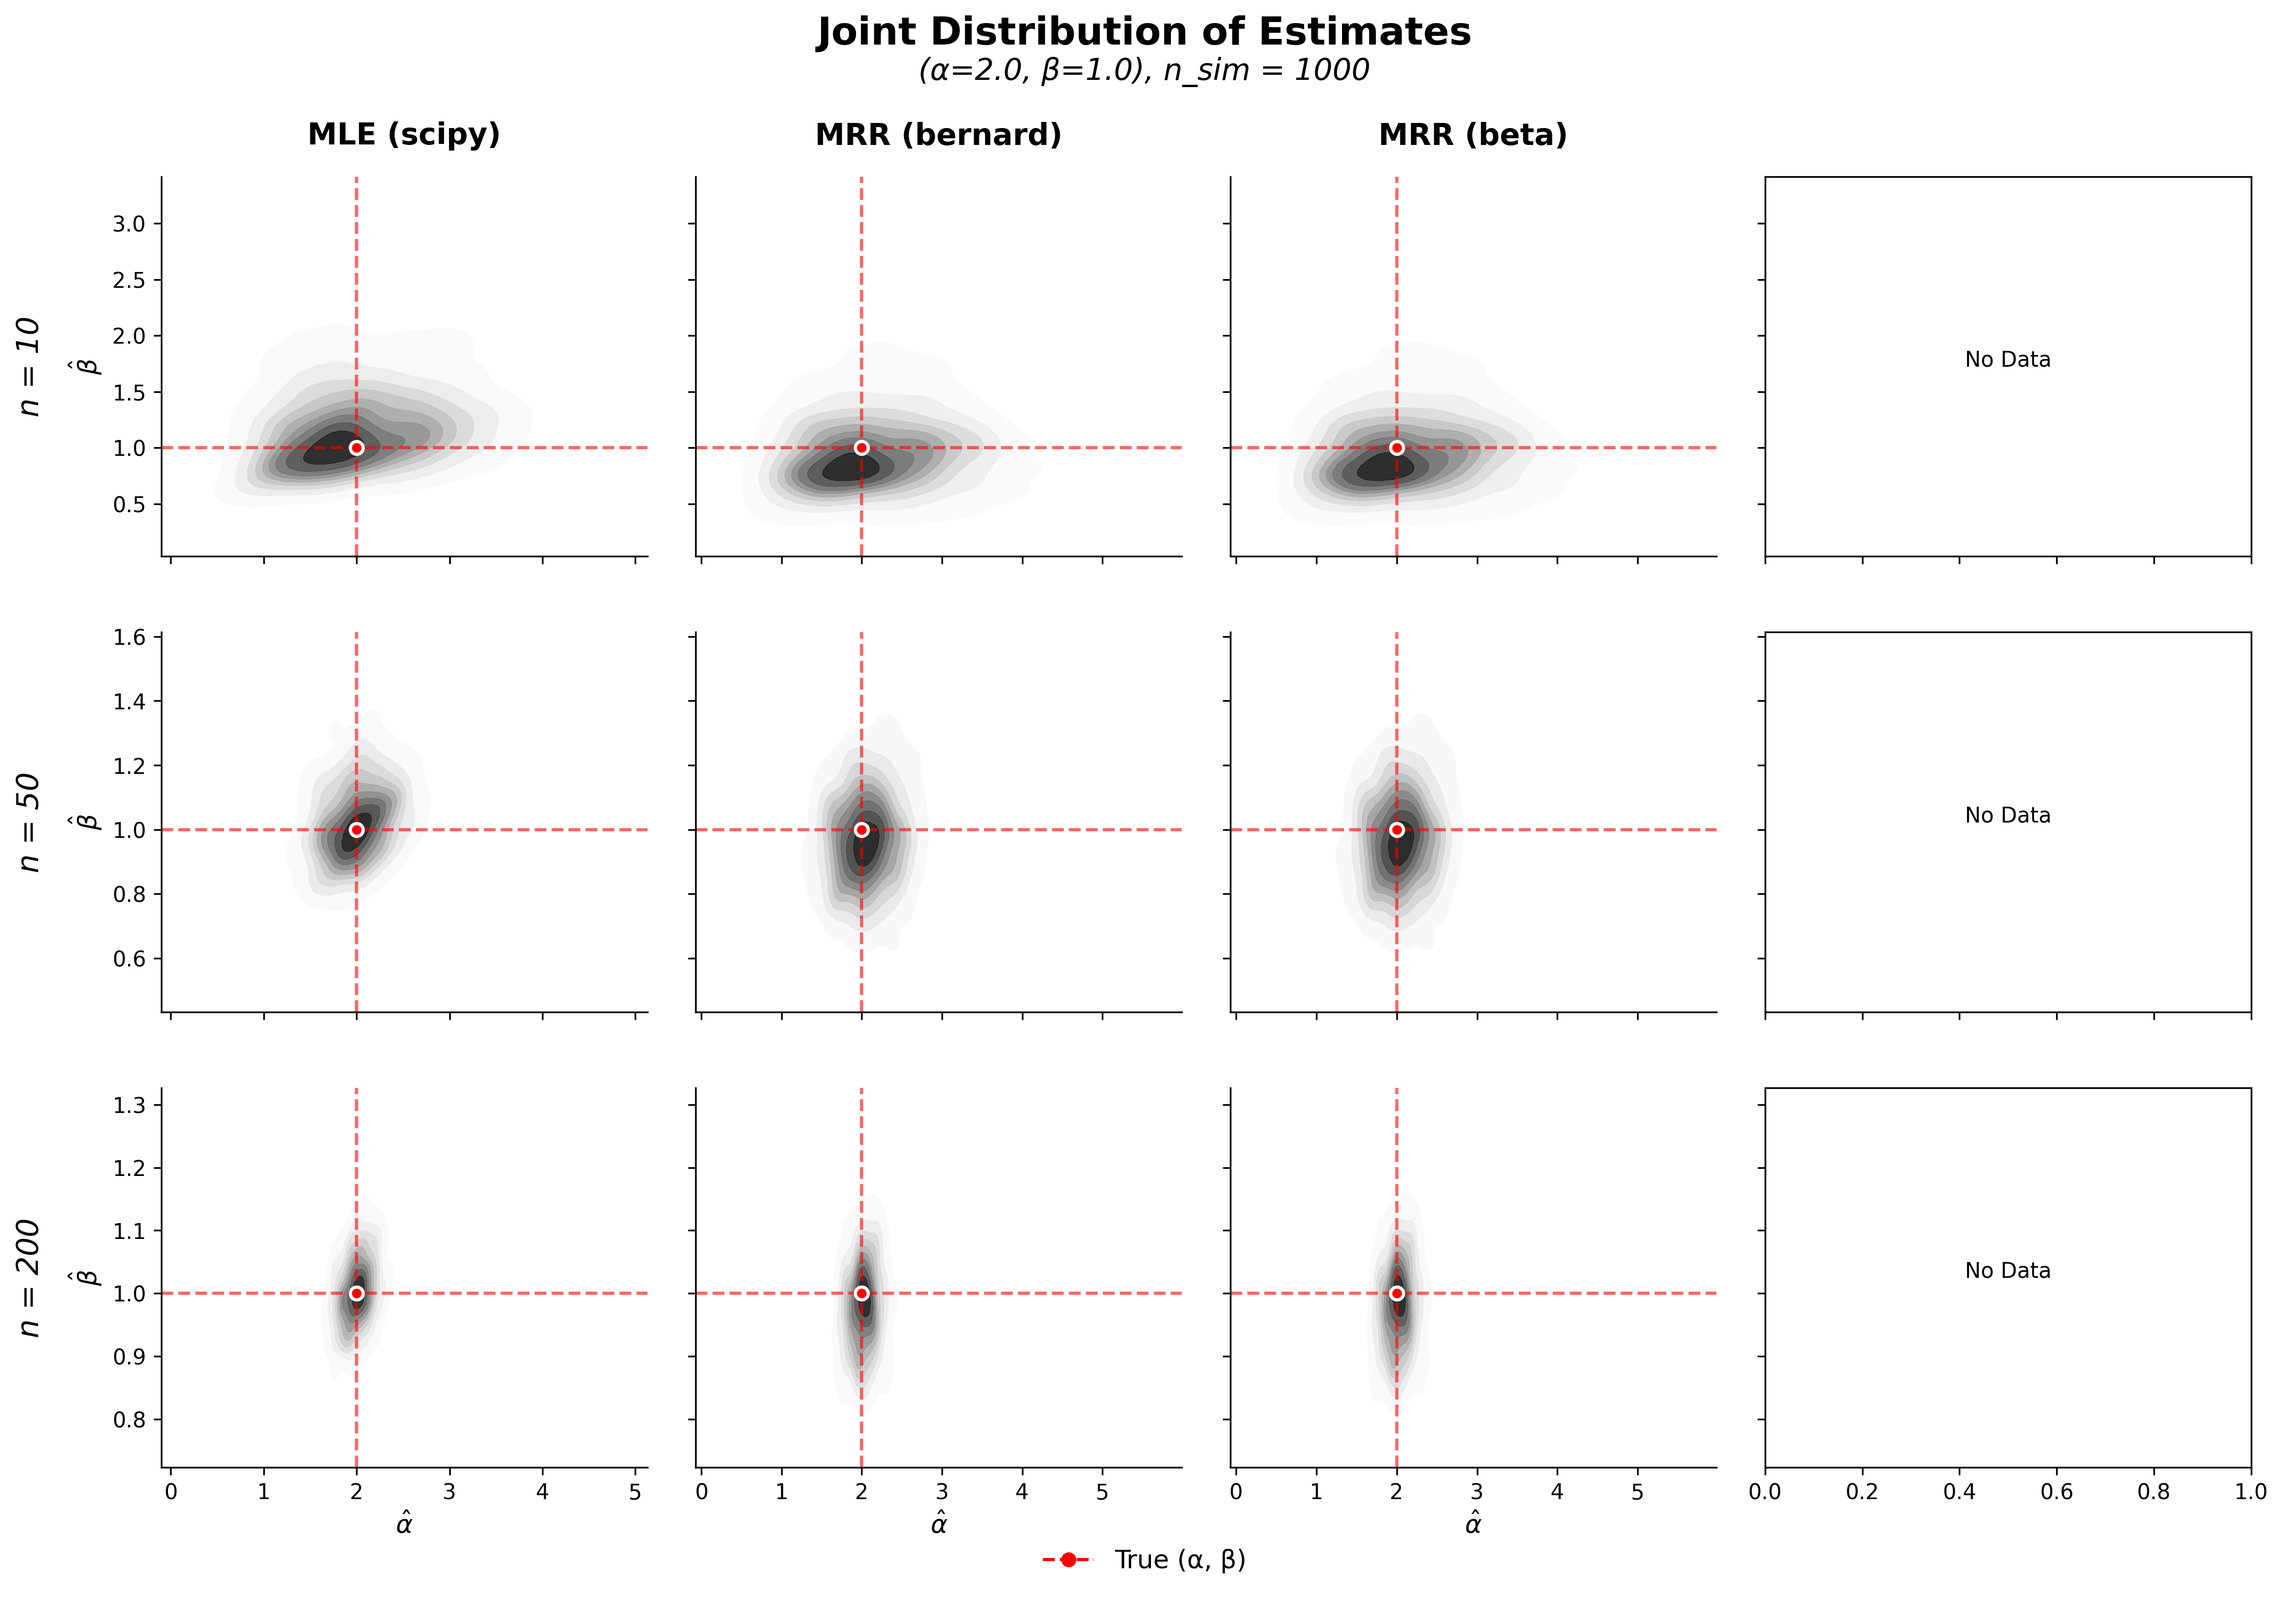
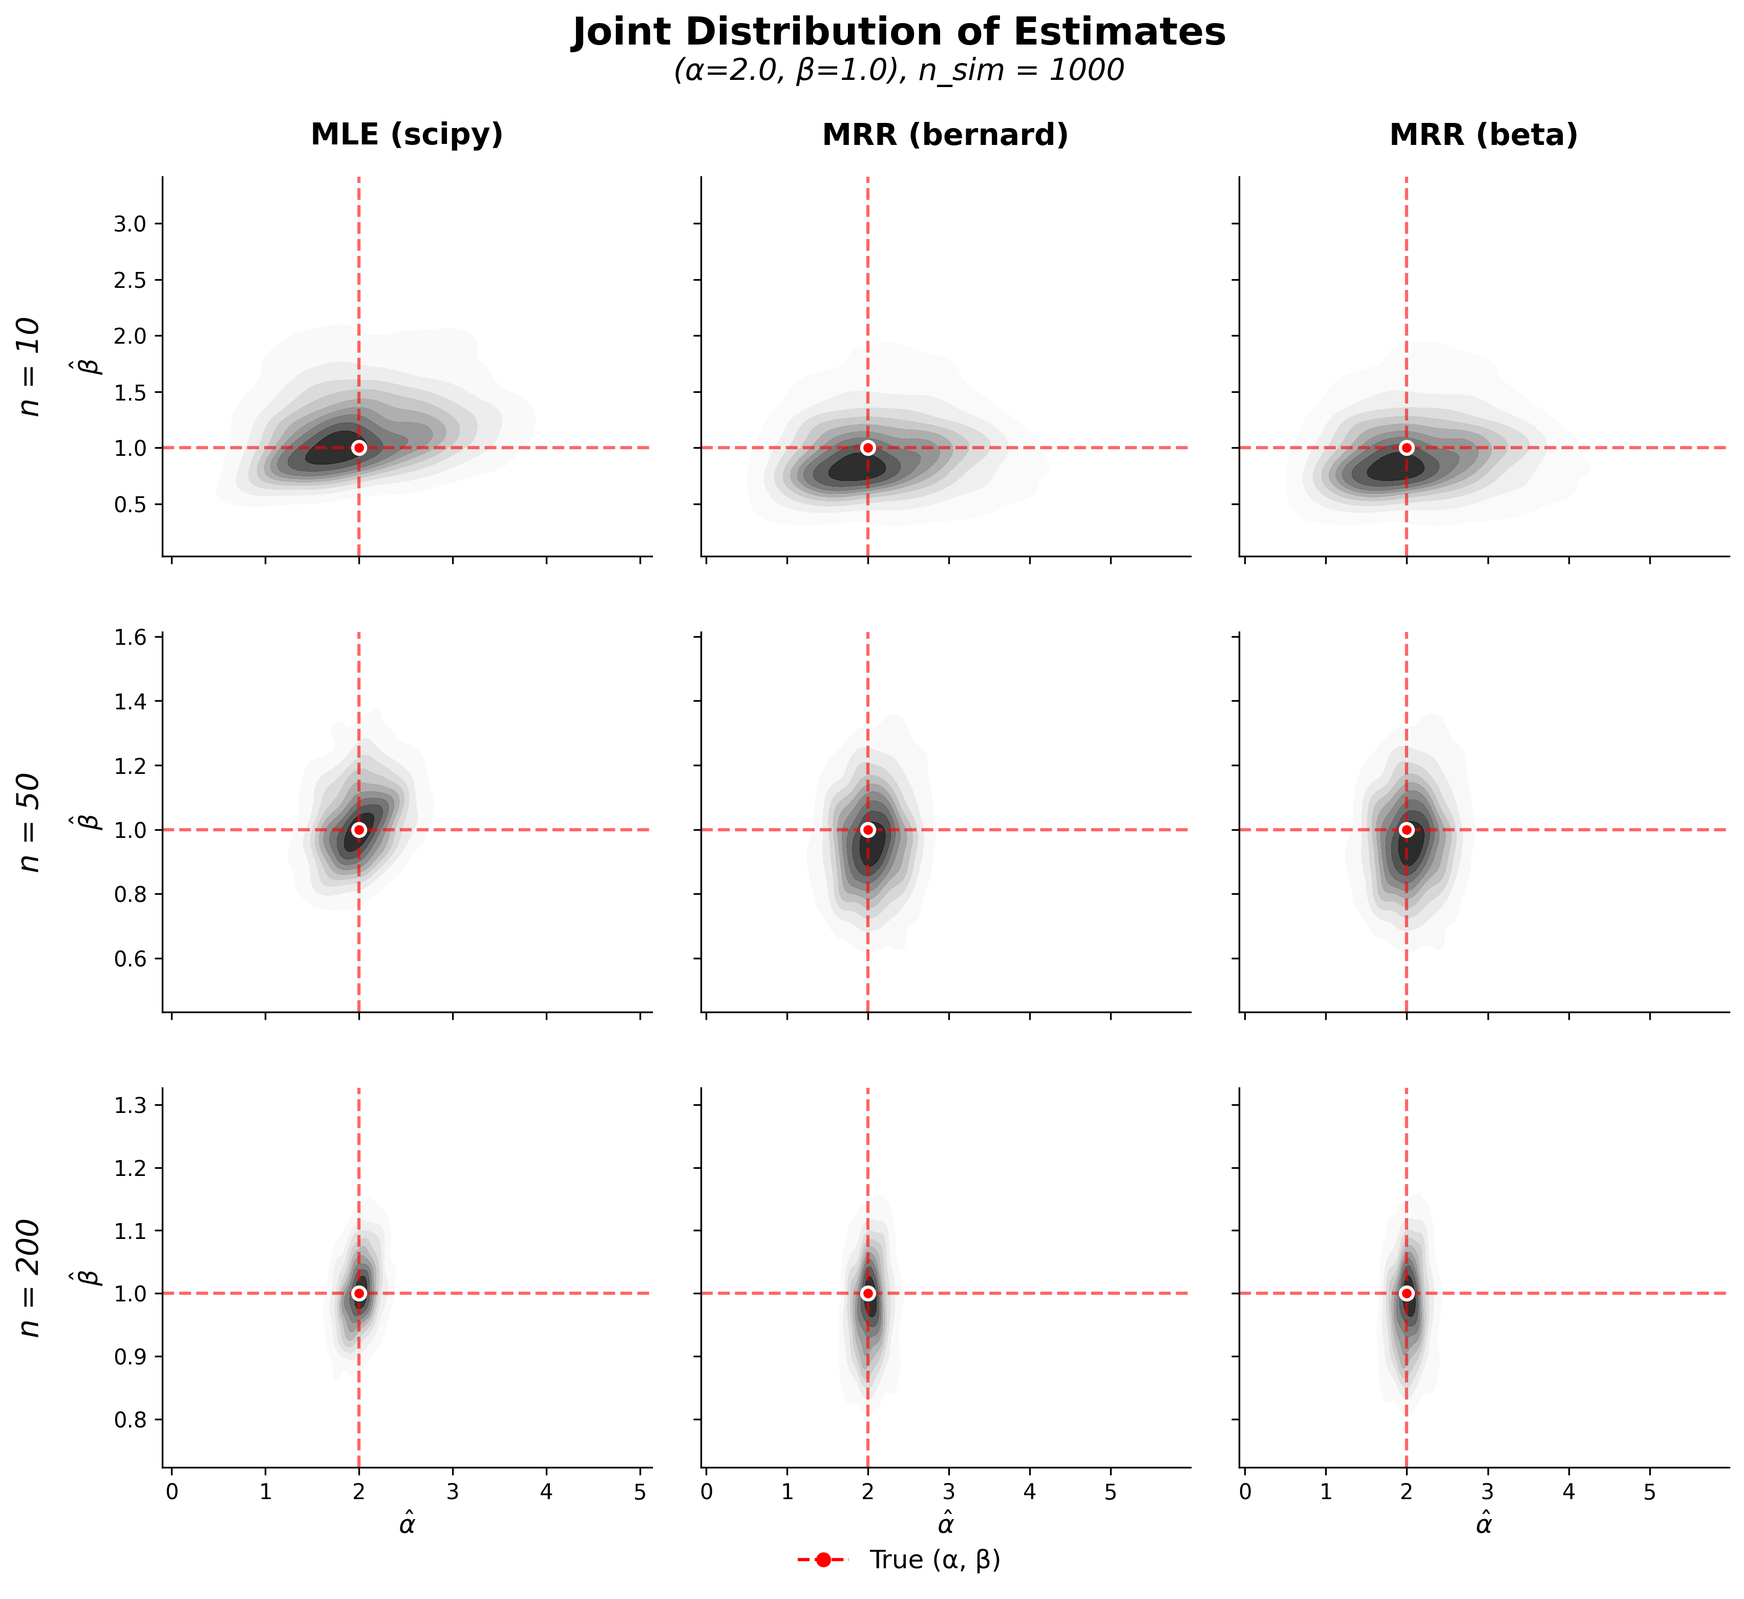
Fixed emtpy graph bug shurmano

diff --git a/assigment1/src/main.py b/assigment1/src/main.py
@@ -39,7 +39,7 @@ def main():
     betas = [0.5, 1.0, 3.0]
     sample_sizes = [10, 50, 200]
 
-    run_simulation(alphas, betas, sample_sizes, n_sims, rng)
+    # run_simulation(alphas, betas, sample_sizes, n_sims, rng)
     generate_results_plots(f"{PROJECT_ROOT}/results")
     ## II. PLOTTING RESULTS
 
@@ -74,6 +74,8 @@ def generate_results_plots(results_dir: str):
             df_head = pd.read_csv(full_path, header=[0, 1, 2], nrows=0)
             # Level 1 contains method names (e.g., 'MLE (scipy)', 'MRR (beta)')
             methods_in_file = list(df_head.columns.levels[1].unique())
+
+            methods_in_file = [s for s in methods_in_file if s != "method_full"]
         except Exception as e:
             print(f"Skipping {filename}: {e}")
             continue
